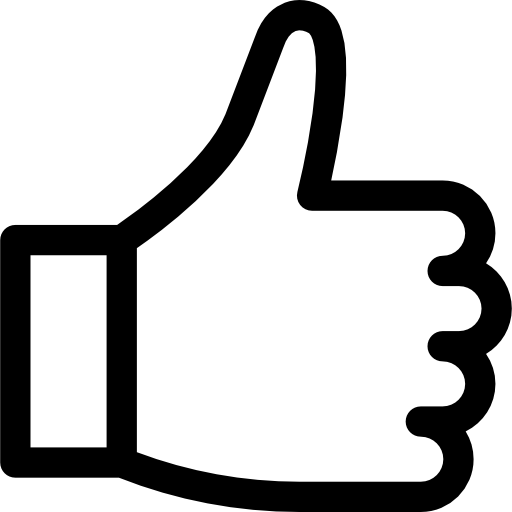
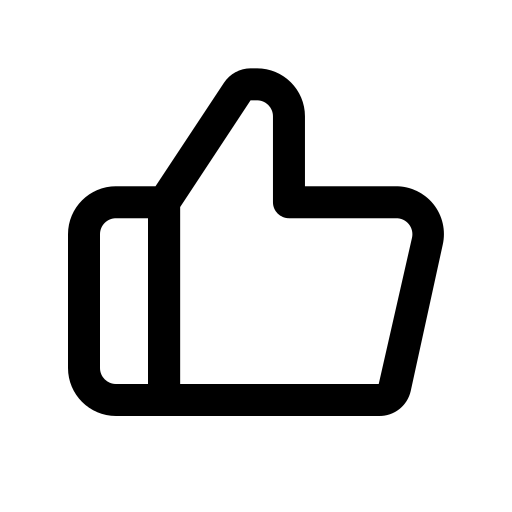
add dyslike

diff --git a/template/Home.html b/template/Home.html
@@ -41,19 +41,34 @@
                     <p class="txt">
                         {{ $instance.Content }}
                     </p>
-                    <form method="post">
-                        <button id="like" type="submit">
-                            {{ if $instance.Like }}
-                            <img id="like" src="../assets/img/like_black.png" alt="like">
-                            {{ end }}
+                    <div class="likes">
+                        <form method="post">
+                            <button id="like" type="submit">
+                                {{ if $instance.Like }}
+                                <img id="like" src="../assets/img/like_black.png" alt="like">
+                                {{ end }}
 
-                            {{ if not $instance.Like }}
-                            <img id="like" src="../assets/img/like_white.png" alt="like">
-                            {{ end }}
+                                {{ if not $instance.Like }}
+                                <img id="like" src="../assets/img/like_white.png" alt="like">
+                                {{ end }}
 
-                            <input class="more" type="hidden" value={{ $instance.Id }} name="like">
-                        </button>
-                    </form>
+                                <input class="more" type="hidden" value={{ $instance.Id }} name="like">
+                            </button>
+                        </form>
+                        <form method="post">
+                            <button id="dislike" type="submit">
+                                {{ if $instance.Dislike }}
+                                <img id="dislike" src="../assets/img/dislike_black.png" alt="dislike">
+                                {{ end }}
+
+                                {{ if not $instance.Dislike }}
+                                <img id="dislike" src="../assets/img/dislike_white.png" alt="dislike">
+                                {{ end }}
+
+                                <input class="more" type="hidden" value={{ $instance.Id }} name="dislike">
+                            </button>
+                        </form>
+                    </div>
                 </div>
                 <div class="image">
                     <img src="../assets/img/img1.webp" alt="image">

diff --git a/src/home.go b/src/home.go
@@ -44,6 +44,7 @@ func Home(w http.ResponseWriter, r *http.Request) {
 	homePage := HomePageStruct{}
 
 	RecuperationLike()
+	RecuperationDislike()
 
 	allPost = nil
 	allPost := recuperationPost()
@@ -58,30 +59,58 @@ func Home(w http.ResponseWriter, r *http.Request) {
 
 	if r.Method == http.MethodPost {
 		likeIdPostStr := r.FormValue("like")
+		dislikeIdPostStr := r.FormValue("dislike")
+
 		likeIdPost, _ := strconv.Atoi(likeIdPostStr)
-		isLiked := LikeOnPost(connectedUserId, likeIdPost, allLikeList)
-		if isLiked == true {
-			DeleteLike(database, connectedUserId, likeIdPost)
-		} else {
-			AddLike(database, connectedUserId, likeIdPost)
+		dislikeIdPost, _ := strconv.Atoi(dislikeIdPostStr)
+
+		if likeIdPostStr == "" {
+			isLiked := LikeOnPost(connectedUserId, dislikeIdPost, allLikeList)
+			isDisliked := DislikeOnPost(connectedUserId, dislikeIdPost, allDislikeList)
+
+			if isLiked == true {
+				DeleteLike(database, connectedUserId, dislikeIdPost)
+			}
+			if isDisliked == true {
+				DeleteDislike(database, connectedUserId, dislikeIdPost)
+			} else {
+				AddDislike(database, connectedUserId, dislikeIdPost)
+			}
 		}
+
+		if dislikeIdPostStr == "" {
+			isLiked := LikeOnPost(connectedUserId, likeIdPost, allLikeList)
+			isDisliked := DislikeOnPost(connectedUserId, likeIdPost, allDislikeList)
+
+			if isDisliked == true {
+				DeleteDislike(database, connectedUserId, likeIdPost)
+			}
+			if isLiked == true {
+				DeleteLike(database, connectedUserId, likeIdPost)
+			} else {
+				AddLike(database, connectedUserId, likeIdPost)
+			}
+		}
+
 	}
 
 	//LIKE
 
 	RecuperationLike()
+	RecuperationDislike()
 
 	for i := 0; i < len(allPost); i++ {
 		_, username, _, _, _ := FetchUserWithId(database, strconv.Itoa(allPost[i].Author))
 
 		isLiked := LikeOnPost(connectedUserId, allPost[i].Id, allLikeList)
+		isDisliked := DislikeOnPost(connectedUserId, allPost[i].Id, allDislikeList)
 		postFinalIntoStruc := PostStruct{
 			Id:         allPost[i].Id,
 			Author:     allPost[i].Author,
 			AuthorName: username,
 			Content:    allPost[i].Content,
 			Like:       isLiked,
-			Dislike:    true,
+			Dislike:    isDisliked,
 			Date:       allPost[i].Date,
 		}
 

diff --git a/src/dislike.go b/src/dislike.go
@@ -1,0 +1,78 @@
+package forum
+
+import (
+	"database/sql"
+	"fmt"
+	"log"
+
+	_ "github.com/mattn/go-sqlite3"
+)
+
+type DislikeFromDb struct {
+	IdUser int
+	IdPost int
+}
+
+var allDislikeList []DislikeFromDb
+
+func RecuperationDislike() {
+	allDislikeList = nil
+	database, _ := sql.Open("sqlite3", "./database/forumBDD.db")
+	defer database.Close()
+	rows, err := database.Query("SELECT * FROM DISLIKE")
+	if err != nil {
+		fmt.Println(err)
+	}
+	defer rows.Close()
+	for rows.Next() {
+		var idUser int
+		var idPost int
+		err = rows.Scan(&idUser, &idPost)
+
+		if err != nil {
+			log.Fatal(err)
+		}
+		dislikeStruc := DislikeFromDb{}
+		dislikeStruc = DislikeFromDb{
+			IdUser: idUser,
+			IdPost: idPost,
+		}
+
+		allDislikeList = append(allDislikeList, dislikeStruc)
+
+	}
+}
+
+func AddDislike(db *sql.DB, idUser int, idPost int) {
+
+	records := `INSERT INTO DISLIKE(idUser,idPost) VALUES (?,?)`
+	query, err := db.Prepare(records)
+
+	_, err = query.Exec(idUser, idPost)
+	if err != nil {
+		log.Fatal(err)
+	}
+}
+
+func DeleteDislike(db *sql.DB, idUser int, idPost int) {
+	records := `DELETE FROM DISLIKE
+	WHERE idUser = $1 
+	AND idPost = $2`
+	query, err := db.Prepare(records)
+	if err != nil {
+		log.Fatal(err)
+	}
+	_, err = query.Exec(idUser, idPost)
+	if err != nil {
+		log.Fatal(err)
+	}
+}
+
+func DislikeOnPost(idUser int, idPost int, allDislike []DislikeFromDb) bool {
+	for i := 0; i < len(allDislike); i++ {
+		if allDislike[i].IdPost == idPost && allDislike[i].IdUser == idUser {
+			return true
+		}
+	}
+	return false
+}
